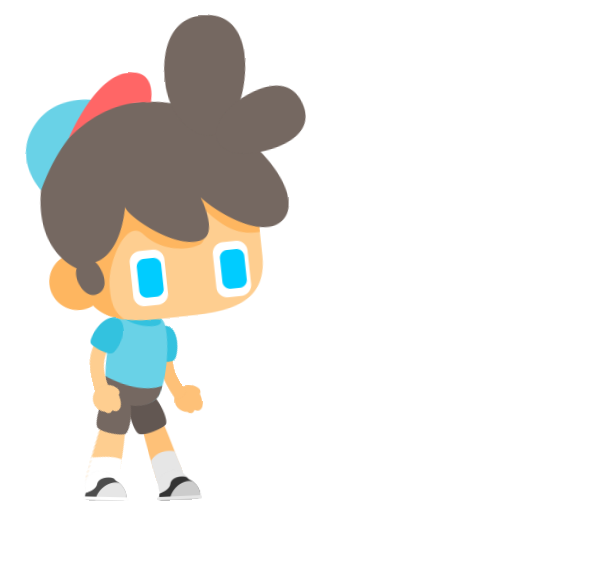
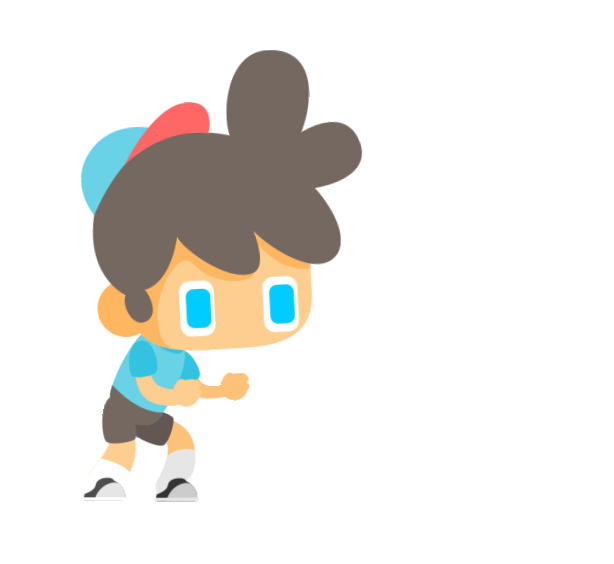
Poprawione skakanie

Changed region(s): [[0.0309, 0.0301, 0.5879, 0.9043], [0.1547, 0.844, 0.1857, 0.8741], [0.1238, 0.8741, 0.1547, 0.9043]]

diff --git a/gra_sfml/main.cpp b/gra_sfml/main.cpp
@@ -7,11 +7,14 @@
 #include "general.h"
 #include <iostream>
 #include <memory>
+#include <cstdlib>
 int main()
 {
     // Tworzenie okna
     RenderWindow window;
     window_set(window);
+
+//    window.setFramerateLimit(3);
 
     // Tworzenie tła
     map_Sprite map_ground("grass",2045,900,2100,0);
@@ -27,6 +30,7 @@ int main()
     // Tworzenie postaci
     vector<vector<vector<character_Sprite>>> character_animation;
     set_character(character_animation);
+
     // Tworzenie Bossa
     vector<vector<boss_Sprite>> boss;
     set_boss(boss);
@@ -36,7 +40,7 @@ int main()
     vector<obstacle_Sprite> flame_character;
     set_flames(flame_dino,flame_character);
 
-
+    srand(time(NULL));
 
     my_text score_text("Pacifico",100,1750,50);
 
@@ -45,7 +49,7 @@ int main()
     int animation_move=1; //aktualna animacja biegania
     int actual_animation=0; // aktualna animacja
     Clock clock;
-    float actual_clock=0, speed_clock=1, bird_clock=0, obstacle_clock=0, total_time=0; // liczniki czasów
+    float actual_clock=0, speed_clock=1, bird_clock=0, obstacle_clock=0, total_time=0, jump_clock=0; // liczniki czasów
     float speed=0; // predkosc gry
     float frame=0; // klatka animacji Pikpoka
     float frame_bird=0; // klatka animacji Brida
@@ -58,13 +62,15 @@ int main()
     int which_character=0;
     int  nr_frame_idle=15;
     int nr_frame_move=15;
-    int nr_frame_jump=15;
     int nr_frame_dead=15;
     bool boss_MODE=false;
     bool attack=false;
+    bool first_jump=true;
     float boss_animation=1;
     float frame_boss=0;
     float boss_life=4;
+    vector <float> time_jump_distance(3,0);
+    float time_jump=300;
 
     while (window.isOpen())
     {
@@ -82,7 +88,6 @@ int main()
                     which_character=1;
                     nr_frame_idle=16;
                     nr_frame_move=20;
-                    nr_frame_jump=15;
                     nr_frame_dead=30;
                 }
                 else
@@ -90,7 +95,6 @@ int main()
                     which_character=0;
                     nr_frame_idle=15;
                     nr_frame_move=15;
-                    nr_frame_jump=15;
                     nr_frame_dead=15;
                 }
                 animation=0;
@@ -99,6 +103,7 @@ int main()
 
             if (Keyboard::isKeyPressed(Keyboard::Space)&& !run)
             {
+                time_jump=300;
                 boss_MODE=false;
                 score_boss=0;
                 speed=7;
@@ -220,12 +225,28 @@ int main()
         }
         else if(actual_clock>=refresh_animation&& animation==3) // jump animation
         {
-            actual_clock=0;
-            frame++;
-            if(frame==nr_frame_jump)
+            if(first_jump)
             {
-                frame=0;
+                actual_clock=0;
+                first_jump=false;
+            }
+            else if(frame==2)
+            {
                 animation=animation_move;
+                first_jump=true;
+                actual_clock=0;
+            }
+            else if(set_time_jump(jump_clock)>jump_clock)
+            {
+                jump_clock+=elapsed.asMilliseconds();
+                frame=1;
+                actual_clock=0;
+            }
+            else
+            {
+                frame=2;
+                jump_clock=0;
+                actual_clock=0;
             }
         }
         else if(animation==4) //dead animation
@@ -271,12 +292,12 @@ int main()
             if(obstacle_clock>o_c_time&&run)
             {
                 obstacle_clock=0;
-                generate_obstacle(birds,mushrooms);
+                generate_obstacle(birds,mushrooms,time_jump_distance);
                 o_c_time=rand()%10+9;
                 o_c_time/=10;
             }
 
-            if(animation!=0)
+            if(animation!=0 && animation!=4)
             {
                 for(unsigned i=0;i<birds.size();i++)
                 {
@@ -294,6 +315,19 @@ int main()
                     if(mushrooms[i].to_move)
                     {
                         mushrooms[i].move(-speed,0);
+                        if(mushrooms[i].getPosition().x<650 && mushrooms[i].getPosition().x>=500)
+                        {
+                            time_jump_distance[i]+=elapsed.asMilliseconds();
+                            //                            cout<<i<<"   "<<time_jump_distance[i]<<endl;
+                        }
+                        else if(mushrooms[i].getPosition().x<=500)
+                        {
+                            if(time_jump>time_jump_distance[i])
+                            {
+                                time_jump=time_jump_distance[i];
+                                cout<<speed<<"  "<<time_jump<<endl;
+                            }
+                        }
                         if(Collision::PixelPerfectTest(character_animation[which_character][animation][frame],mushrooms[i]))
                         {
                             animation=4;
@@ -303,7 +337,7 @@ int main()
             }
         }
 
-        if(!(score_boss%100) && score_boss>10) // boss fight
+        if(!(score_boss%1000) && score_boss>10) // boss fight
         {
             boss_MODE=true;
             if(obstacle_clock>o_c_time)

diff --git a/gra_sfml/character_sprite.cpp b/gra_sfml/character_sprite.cpp
@@ -27,20 +27,9 @@ void set_character_frames(vector<character_Sprite> &ch_vec, string file_name, fl
 void set_character_jump(vector<character_Sprite> &ch_vec, string file_name, float OriginX, float OriginY, float PosX, float PosY, float nr_of_animation)
 {
     set_character_frames(ch_vec, file_name, OriginX, OriginY, PosX, PosY, nr_of_animation);
-    int posY=0;
-    for(unsigned i=0;i<ch_vec.size();i++)
-    {
-        if(i<8)
-        {
-            ch_vec[i].move(0,posY);
-            posY-=22;
-        }
-        else
-        {
-            ch_vec[i].move(0,posY);
-            posY+=22;
-        }
-    }
+    ch_vec[0].move(0,-100);
+    ch_vec[1].move(0,-200);
+    ch_vec[2].move(0,-100);
 }
 void set_character_dead(vector<character_Sprite> &ch_vec, string file_name, float OriginX, float OriginY, float PosX, float PosY, float nr_of_animation)
 {
@@ -62,7 +51,7 @@ void set_character(vector <vector<vector <character_Sprite>>> &character_animati
     vector <character_Sprite> boy_run;
     set_character_frames(boy_run,"boy/b_run/Run ",307,500,300,924,15);
     vector <character_Sprite> boy_jump;
-    set_character_jump(boy_jump,"boy/b_jump/Jump ",307,500,300,924,15);
+    set_character_jump(boy_jump,"boy/b_jump/Jump ",307,500,300,924,3);
     vector <character_Sprite> boy_dead;
     set_character_dead(boy_dead,"boy/b_dead/Dead ",307,500,300,924,15);
 
@@ -73,7 +62,7 @@ void set_character(vector <vector<vector <character_Sprite>>> &character_animati
     vector <character_Sprite> girl_run;
     set_character_frames(girl_run,"girl/g_run/Run ",208,445,300,921,20);
     vector <character_Sprite> girl_jump;
-    set_character_jump(girl_jump,"girl/g_jump/Jump ",208,445,300,921,15);
+    set_character_jump(girl_jump,"girl/g_jump/Jump ",208,445,300,921,3);
     vector <character_Sprite> girl_dead;
     set_character_dead(girl_dead,"girl/g_dead/Dead ",208,445,300,921,30);
 

diff --git a/gra_sfml/obstacle_sprite.cpp b/gra_sfml/obstacle_sprite.cpp
@@ -39,7 +39,7 @@ void set_flames(vector<obstacle_Sprite> &flame_dino, vector<obstacle_Sprite> &fl
         flame_character.emplace_back(flame2);
     }
 }
-void generate_obstacle(vector<vector<obstacle_Sprite>>&birds, vector<obstacle_Sprite>&mushrooms)
+void generate_obstacle(vector<vector<obstacle_Sprite>>&birds, vector<obstacle_Sprite>&mushrooms,vector<float>&time_jump_distance)
 {
     for(unsigned i=0;i<birds.size();i++)
     {
@@ -50,11 +50,12 @@ void generate_obstacle(vector<vector<obstacle_Sprite>>&birds, vector<obstacle_Sp
         if(mushrooms[i].getPosition().x<0)
         {
             mushrooms[i].to_move=false;
+            time_jump_distance[i]=0;
         }
     }
 
     int randomize=rand()%10+1;
-    if(randomize>5)
+    if(randomize>7)
     {
         for(unsigned i=0;i<birds.size();i++)
         {
@@ -114,3 +115,31 @@ void make_flame(obstacle_Sprite & flame, string name)
     flame.setPosition(1000,700);
 }
 
+float set_time_jump(const float time_jump)
+{
+    //float t = 0.0;
+    if(time_jump>300)
+    {
+        return (time_jump-40);
+    }
+    else if(time_jump>250)
+    {
+        return (time_jump-30);
+    }
+    else if(time_jump>200)
+    {
+        return (time_jump-20);
+    }
+    else if(time_jump>150)
+    {
+        return time_jump;
+    }
+    else if(time_jump>100)
+    {
+        return (time_jump+30);
+    }
+    else
+    {
+        return (time_jump+50);
+    }
+}

diff --git a/gra_sfml/obstacle_sprite.h b/gra_sfml/obstacle_sprite.h
@@ -12,8 +12,9 @@ public:
 
 };
 void set_flames(vector<obstacle_Sprite> &flame_dino, vector<obstacle_Sprite> &flame_character);
-void generate_obstacle(vector<vector<obstacle_Sprite> > &birds, vector<obstacle_Sprite> &mushrooms);
+void generate_obstacle(vector<vector<obstacle_Sprite> > &birds, vector<obstacle_Sprite> &mushrooms, vector<float> &time_jump_distance);
 void generate_flame(vector<obstacle_Sprite> &flame_dino);
 void make_flame(obstacle_Sprite & flame, string name);
 void set_obstacle(vector<obstacle_Sprite>&mushrooms, vector<vector<obstacle_Sprite> > &birds);
+float set_time_jump(const float time_jump);
 
